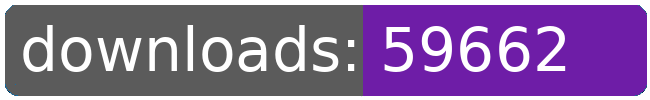
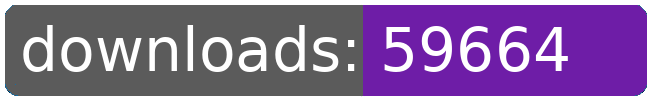
dl log written

Changed region(s): [[0.8, 0.24, 0.8923, 0.72]]

diff --git a/README.md b/README.md
@@ -21,8 +21,8 @@
 		<td>3925</td>
 		<td>3949</td>
 		<td>3977</td>
-		<td>3987</td>
-		<td>+ 10</td>
+		<td>3989</td>
+		<td>+ 12</td>
 	</tr>
 	<tr>
 		<td>aberrant.kahet.outfitter</td>
@@ -274,8 +274,8 @@
 		<td></td>
 		<td></td>
 		<td></td>
-		<td>59662</td>
-		<td>171</td>
+		<td>59664</td>
+		<td>173</td>
 	</tr>
 </table>
 </sub></sup>
@@ -322,8 +322,8 @@
 		<td>3925</td>
 		<td>3949</td>
 		<td>3977</td>
-		<td>3987</td>
-		<td>+ 10</td>
+		<td>3989</td>
+		<td>+ 12</td>
 	</tr>
 	<tr>
 		<td>capture.archons</td>
@@ -553,8 +553,8 @@
 		<td></td>
 		<td></td>
 		<td></td>
-		<td>59662</td>
-		<td>171</td>
+		<td>59664</td>
+		<td>173</td>
 	</tr>
 </table>
 </sub></sup>
